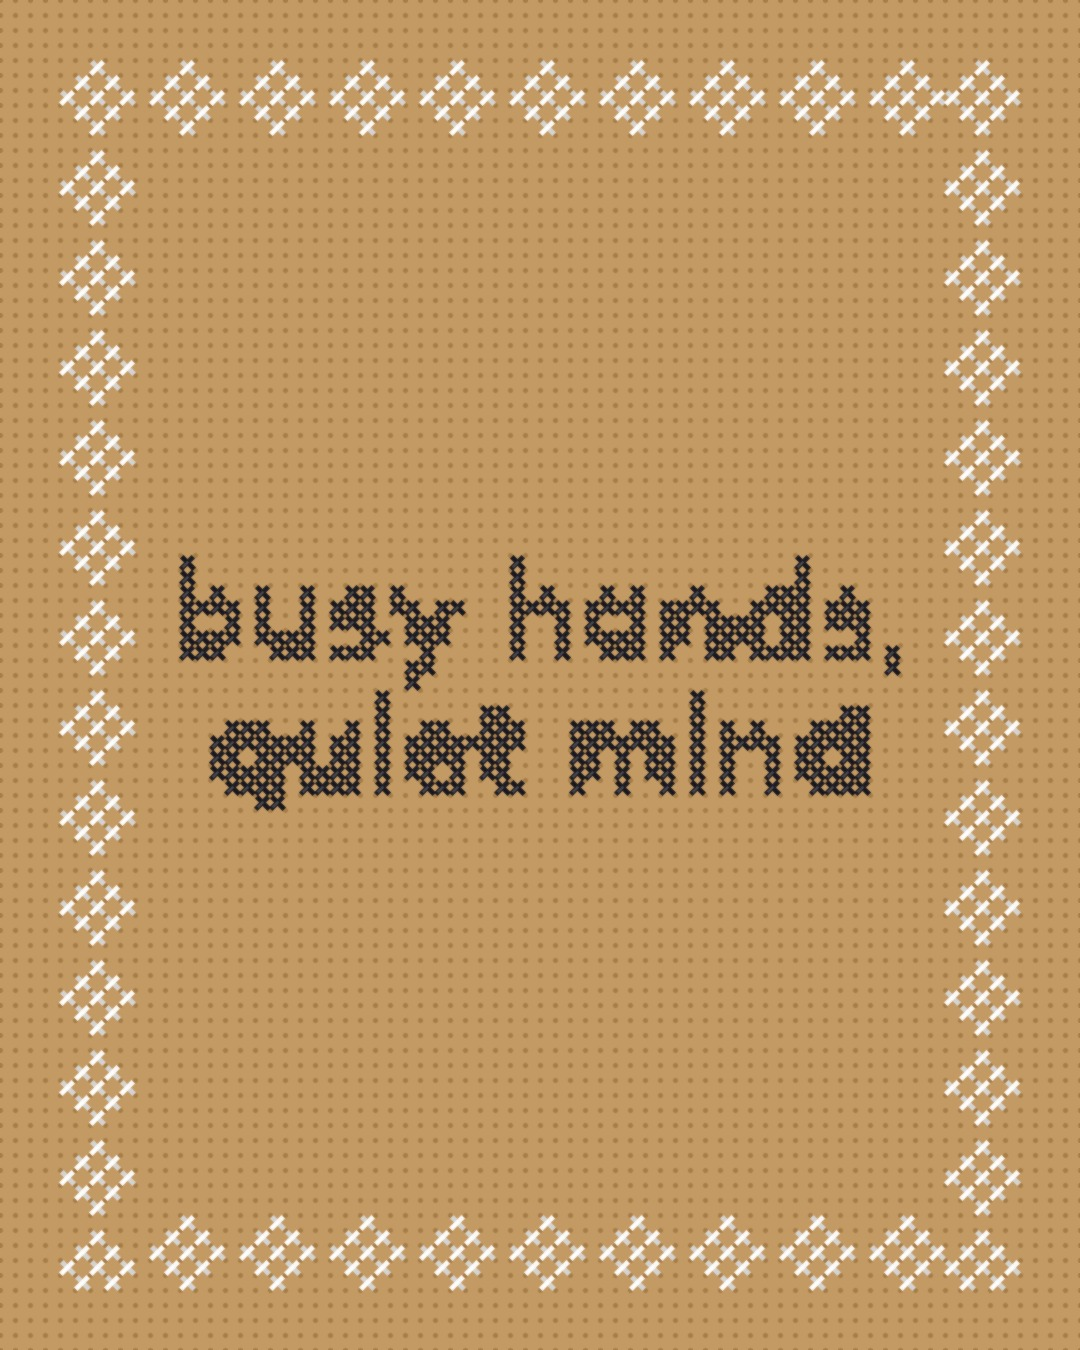
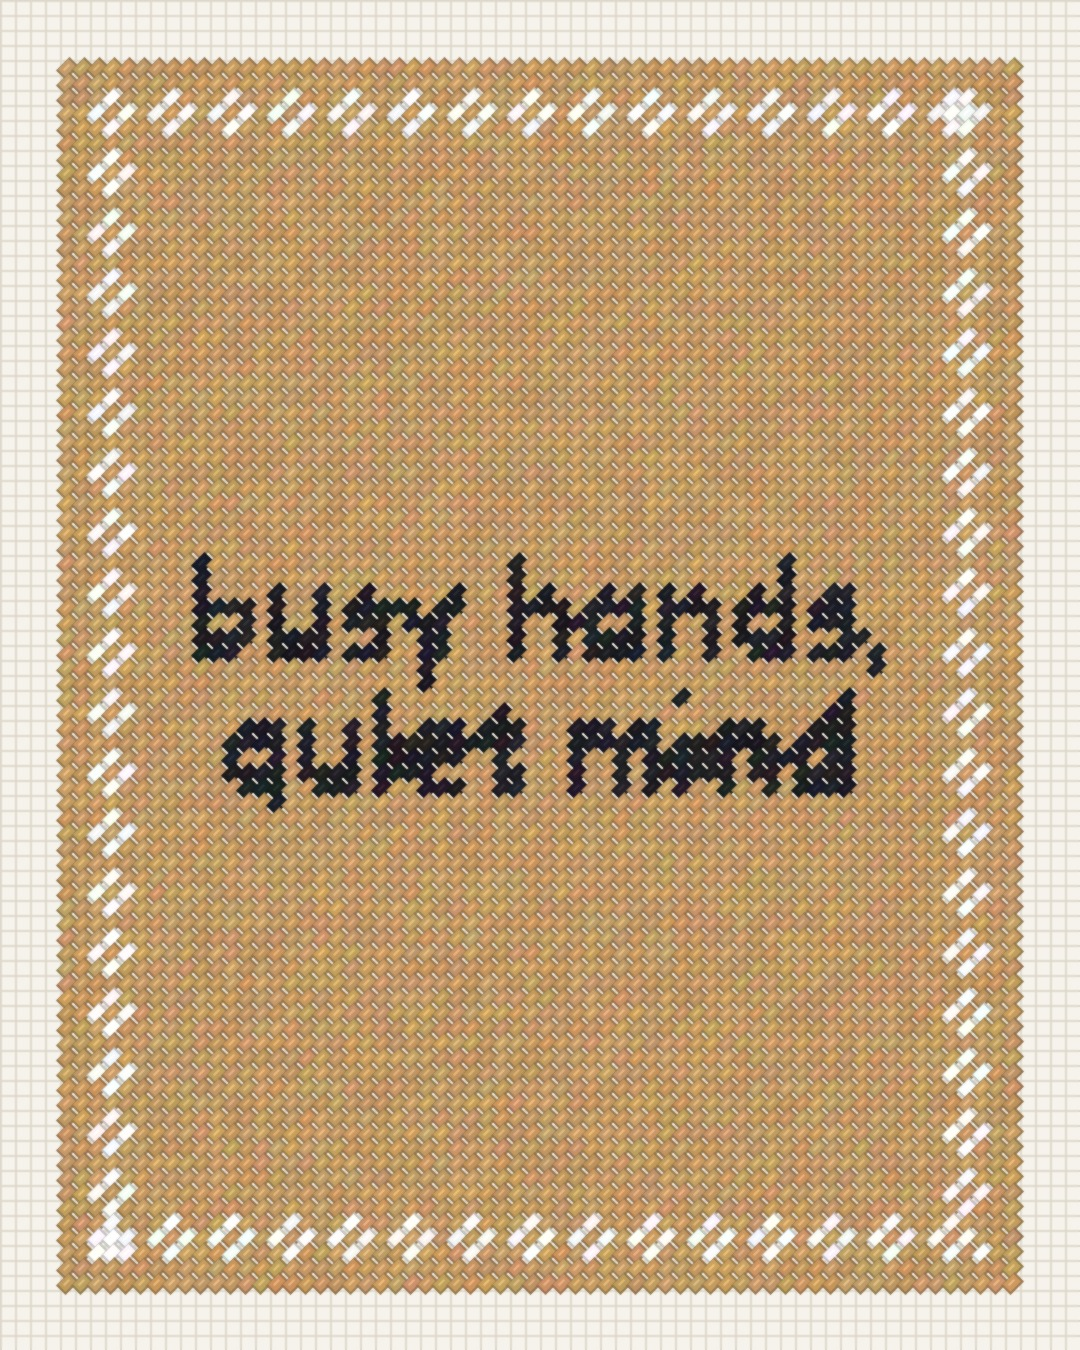
Needlepoint graphics: real tent stitch (not cross-stitch)
Claude-Session: https://claude.ai/code/session_01CeoovJ21APbX2P2SCMoWFW

diff --git a/stitches/diva/needlepoint.py b/stitches/diva/needlepoint.py
@@ -1,56 +1,64 @@
-"""Cross-stitch / needlepoint phrase graphics (1080x1350) from a text mask."""
-import sys, json
+"""Needlepoint (tent stitch) phrase graphics, 1080x1350.
+Every cell of the stitched area is one slanted tent stitch, background included,
+with a bare canvas margin around it, like a real needlepoint canvas."""
+import sys, json, random
 from PIL import Image, ImageDraw, ImageFilter
 
 CELL = 15
 COLS, ROWS = 1080 // CELL, 1350 // CELL   # 72 x 90
+MARGIN = 4                                # bare canvas cells around the stitched area
 
-def stitch(d, cx, cy, col, dark):
-    h = CELL * .42
-    for (x1, y1, x2, y2), c in (((cx - h, cy - h, cx + h, cy + h), dark), ((cx - h, cy + h, cx + h, cy - h), col)):
-        d.line((x1, y1, x2, y2), fill=c, width=6)
-    d.line((cx - h * .6, cy + h * .6, cx + h * .2, cy - h * .2), fill=tuple(min(255, v + 45) for v in col), width=2)
+def jitter(col, R, amt=10):
+    return tuple(max(0, min(255, v + R.randint(-amt, amt))) for v in col)
 
-def build(mask_path, out, bg, thread, border, seed_dark=.85):
+def tent(d, c, r, col, R):
+    x0, y0 = c * CELL, r * CELL
+    base = jitter(col, R, 8)
+    dark = tuple(int(v * .78) for v in base)
+    lite = tuple(min(255, int(v * 1.12) + 14) for v in base)
+    # yarn body: a fat slanted stroke from bottom-left to top-right
+    d.line((x0 + 1, y0 + CELL - 1, x0 + CELL - 1, y0 + 1), fill=dark, width=int(CELL * .95))
+    d.line((x0 + 2, y0 + CELL - 3, x0 + CELL - 3, y0 + 2), fill=base, width=int(CELL * .7))
+    d.line((x0 + 4, y0 + CELL - 6, x0 + CELL - 6, y0 + 4), fill=lite, width=2)
+
+def build(mask_path, out, bg, thread, border, seed=5):
+    R = random.Random(seed)
     m = Image.open(mask_path).convert('L')
-    # fit mask into the inner area (cols 7..47, rows 10..57)
-    iw, ih = COLS - 22, ROWS - 26
+    iw, ih = COLS - 2 * MARGIN - 16, ROWS - 2 * MARGIN - 20
     sc = min(iw / m.width, ih / m.height)
     w, h = max(1, int(m.width * sc)), max(1, int(m.height * sc))
-    g = m.resize((w, h), Image.BOX)
+    g = m.resize((w, h), Image.BOX).load()
     ox, oy = (COLS - w) // 2, (ROWS - h) // 2
-    img = Image.new('RGB', (1080, 1350), bg)
+    canvas = (246, 243, 236)
+    img = Image.new('RGB', (1080, 1350), canvas)
     d = ImageDraw.Draw(img)
-    # canvas weave: holes between cells
-    hole = tuple(max(0, v - 28) for v in bg)
-    for r in range(ROWS + 1):
-        for c in range(COLS + 1):
-            d.ellipse((c * CELL - 2, r * CELL - 2, c * CELL + 2, r * CELL + 2), fill=hole)
-    dk = lambda col: tuple(int(v * seed_dark) for v in col)
-    # text stitches
-    px = g.load()
-    for y in range(h):
-        for x in range(w):
-            if px[x, y] < 140:
-                stitch(d, (ox + x) * CELL + CELL / 2, (oy + y) * CELL + CELL / 2, thread, dk(thread))
-    # diamond border band: diamonds of radius 2, every 6 cells, band centered 6 cells in
-    def put(c, r, col):
-        stitch(d, c * CELL + CELL / 2, r * CELL + CELL / 2, col, dk(col))
-    B = 6
-    for r in range(ROWS):
-        for c in range(COLS):
-            on_band = (abs(c - B) <= 2 or abs(c - (COLS - 1 - B)) <= 2) and B - 2 <= r <= ROWS - 1 - B + 2 \
-                or (abs(r - B) <= 2 or abs(r - (ROWS - 1 - B)) <= 2) and B - 2 <= c <= COLS - 1 - B + 2
-            if not on_band:
-                continue
-            # local coords along band
-            vert = abs(c - B) <= 2 or abs(c - (COLS - 1 - B)) <= 2
-            along = r if vert else c
-            across = (c - B if abs(c - B) <= 2 else c - (COLS - 1 - B)) if vert else (r - B if abs(r - B) <= 2 else r - (ROWS - 1 - B))
-            k = (along - B) % 6
-            k = min(k, 6 - k)
-            if abs(across) + k == 2 or (abs(across) + k == 0):
-                put(c, r, border)
+    # bare canvas mesh
+    for i in range(COLS + 1):
+        d.line((i * CELL, 0, i * CELL, 1350), fill=(222, 216, 204), width=2)
+    for j in range(ROWS + 1):
+        d.line((0, j * CELL, 1080, j * CELL), fill=(222, 216, 204), width=2)
+    B = MARGIN + 3   # diamond border band center, in cells
+    def border_cell(c, r):
+        # chain of small diamonds along a band 3 cells inside the stitched edge
+        for edge in (B, COLS - 1 - B):
+            if abs(c - edge) <= 1 and B - 1 <= r <= ROWS - 1 - B + 1:
+                k = (r - B) % 4; k = min(k, 4 - k)
+                if abs(c - edge) + k == 1: return True
+        for edge in (B, ROWS - 1 - B):
+            if abs(r - edge) <= 1 and B - 1 <= c <= COLS - 1 - B + 1:
+                k = (c - B) % 4; k = min(k, 4 - k)
+                if abs(r - edge) + k == 1: return True
+        return False
+    for r in range(MARGIN, ROWS - MARGIN):
+        for c in range(MARGIN, COLS - MARGIN):
+            x, y = c - ox, r - oy
+            if 0 <= x < w and 0 <= y < h and g[x, y] < 140:
+                col = thread
+            elif border_cell(c, r):
+                col = border
+            else:
+                col = bg
+            tent(d, c, r, col, R)
     img = img.filter(ImageFilter.SMOOTH)
     img.save(out, quality=92)
     print(out)

diff --git a/stitches/diva/needlepoint_crossstitch_OLD.py b/stitches/diva/needlepoint_crossstitch_OLD.py
@@ -1,0 +1,60 @@
+"""Cross-stitch / needlepoint phrase graphics (1080x1350) from a text mask."""
+import sys, json
+from PIL import Image, ImageDraw, ImageFilter
+
+CELL = 15
+COLS, ROWS = 1080 // CELL, 1350 // CELL   # 72 x 90
+
+def stitch(d, cx, cy, col, dark):
+    h = CELL * .42
+    for (x1, y1, x2, y2), c in (((cx - h, cy - h, cx + h, cy + h), dark), ((cx - h, cy + h, cx + h, cy - h), col)):
+        d.line((x1, y1, x2, y2), fill=c, width=6)
+    d.line((cx - h * .6, cy + h * .6, cx + h * .2, cy - h * .2), fill=tuple(min(255, v + 45) for v in col), width=2)
+
+def build(mask_path, out, bg, thread, border, seed_dark=.85):
+    m = Image.open(mask_path).convert('L')
+    # fit mask into the inner area (cols 7..47, rows 10..57)
+    iw, ih = COLS - 22, ROWS - 26
+    sc = min(iw / m.width, ih / m.height)
+    w, h = max(1, int(m.width * sc)), max(1, int(m.height * sc))
+    g = m.resize((w, h), Image.BOX)
+    ox, oy = (COLS - w) // 2, (ROWS - h) // 2
+    img = Image.new('RGB', (1080, 1350), bg)
+    d = ImageDraw.Draw(img)
+    # canvas weave: holes between cells
+    hole = tuple(max(0, v - 28) for v in bg)
+    for r in range(ROWS + 1):
+        for c in range(COLS + 1):
+            d.ellipse((c * CELL - 2, r * CELL - 2, c * CELL + 2, r * CELL + 2), fill=hole)
+    dk = lambda col: tuple(int(v * seed_dark) for v in col)
+    # text stitches
+    px = g.load()
+    for y in range(h):
+        for x in range(w):
+            if px[x, y] < 140:
+                stitch(d, (ox + x) * CELL + CELL / 2, (oy + y) * CELL + CELL / 2, thread, dk(thread))
+    # diamond border band: diamonds of radius 2, every 6 cells, band centered 6 cells in
+    def put(c, r, col):
+        stitch(d, c * CELL + CELL / 2, r * CELL + CELL / 2, col, dk(col))
+    B = 6
+    for r in range(ROWS):
+        for c in range(COLS):
+            on_band = (abs(c - B) <= 2 or abs(c - (COLS - 1 - B)) <= 2) and B - 2 <= r <= ROWS - 1 - B + 2 \
+                or (abs(r - B) <= 2 or abs(r - (ROWS - 1 - B)) <= 2) and B - 2 <= c <= COLS - 1 - B + 2
+            if not on_band:
+                continue
+            # local coords along band
+            vert = abs(c - B) <= 2 or abs(c - (COLS - 1 - B)) <= 2
+            along = r if vert else c
+            across = (c - B if abs(c - B) <= 2 else c - (COLS - 1 - B)) if vert else (r - B if abs(r - B) <= 2 else r - (ROWS - 1 - B))
+            k = (along - B) % 6
+            k = min(k, 6 - k)
+            if abs(across) + k == 2 or (abs(across) + k == 0):
+                put(c, r, border)
+    img = img.filter(ImageFilter.SMOOTH)
+    img.save(out, quality=92)
+    print(out)
+
+if __name__ == '__main__':
+    for job in json.loads(sys.argv[1]):
+        build(job[0], job[1], tuple(job[2]), tuple(job[3]), tuple(job[4]))
